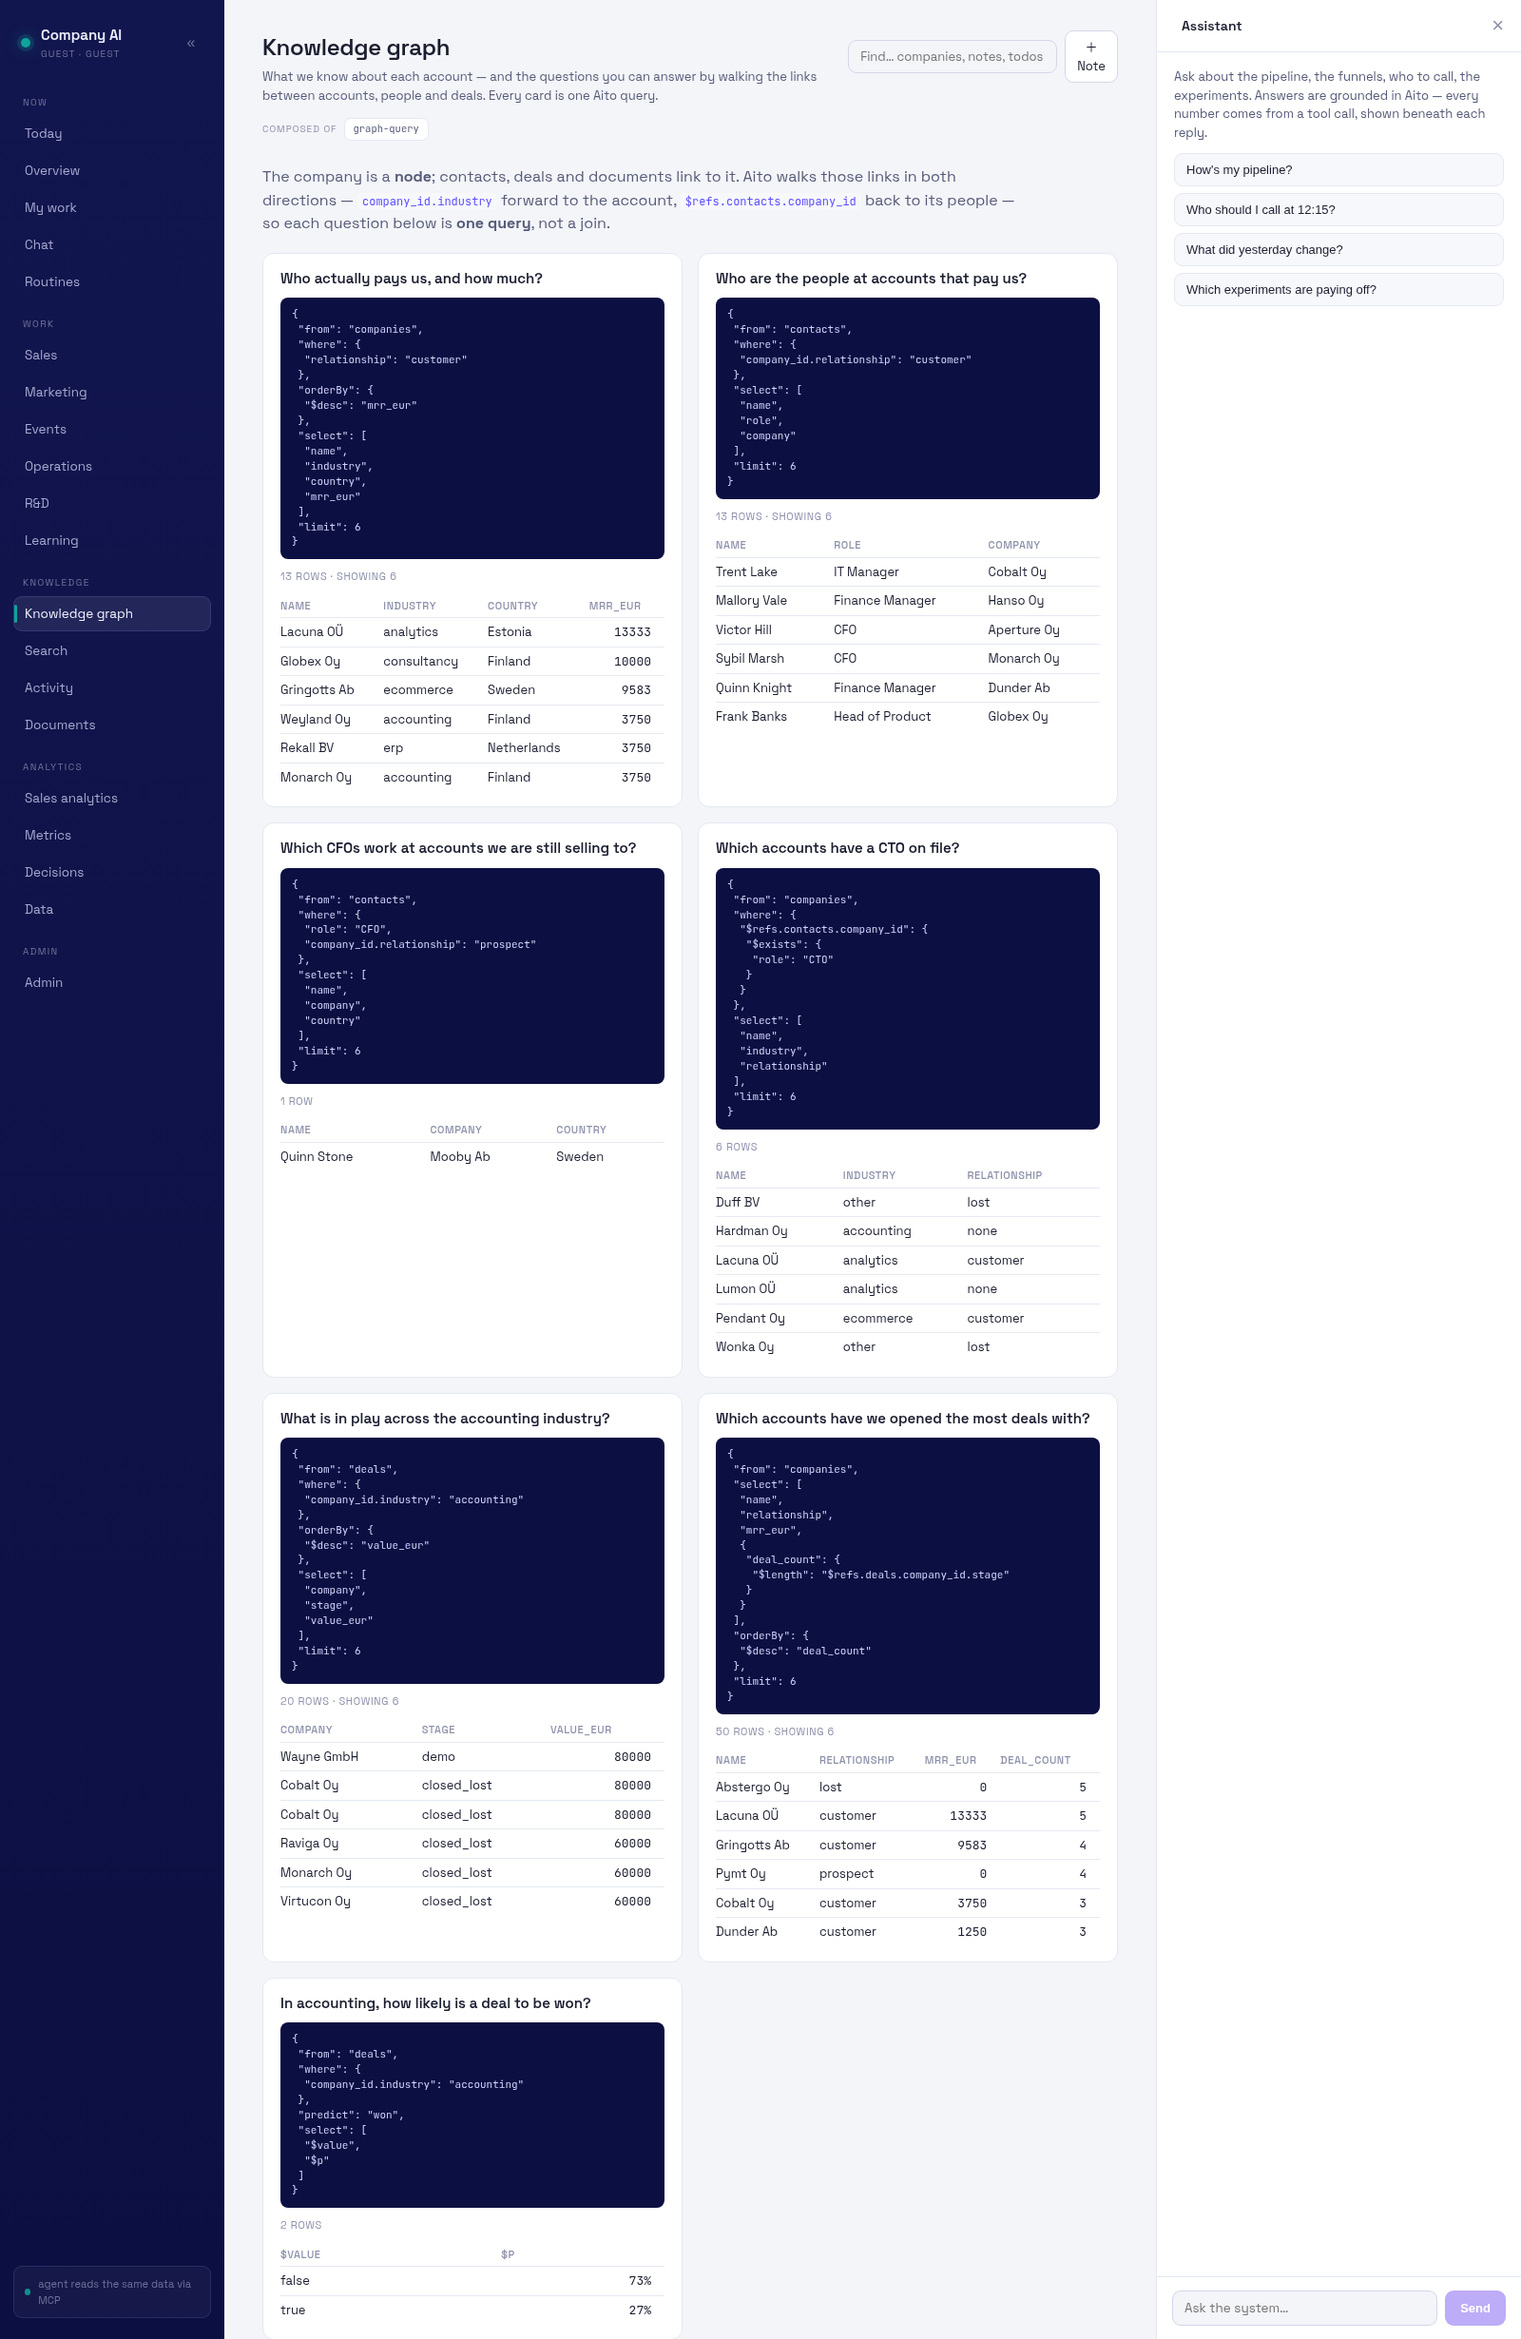
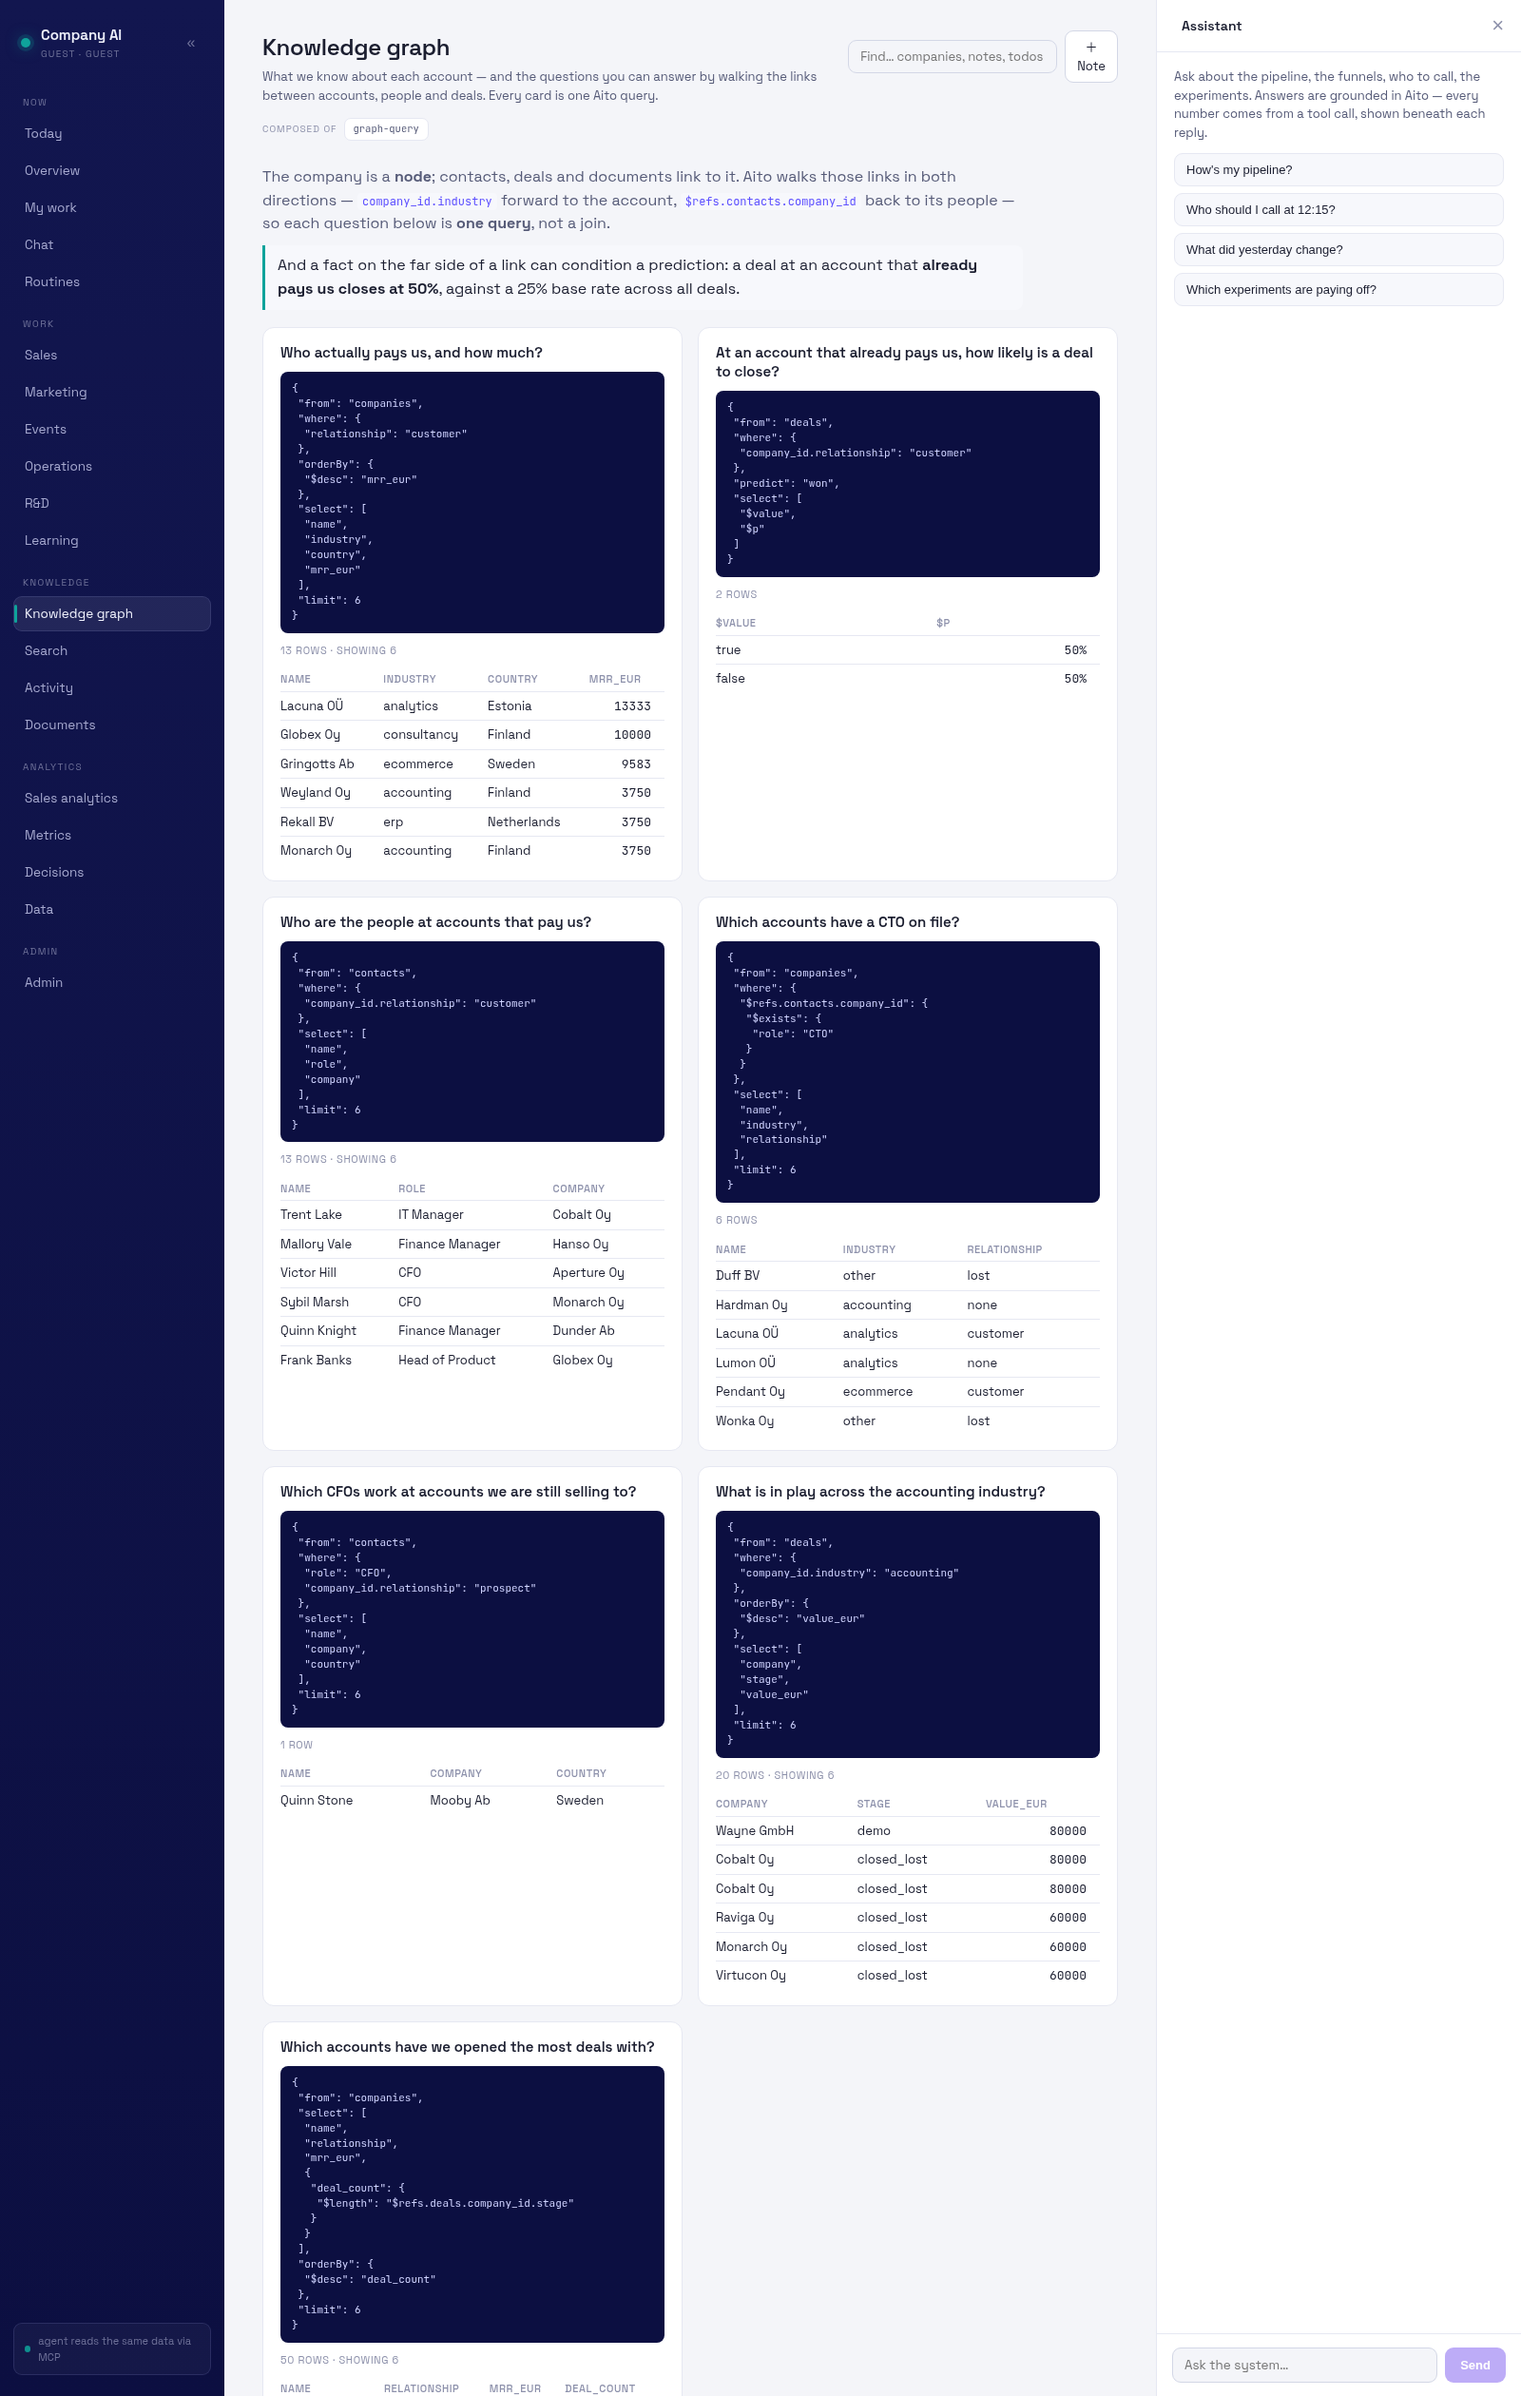
Lead the knowledge graph with its inference card, and record the base rate
The prediction was the last of seven cards, where a screenshot never reaches
it. It is now second, next to the facts card, because it is the only claim on
that board a relational database could not also make: five of the other cards
are joins in disguise.

Choosing the example mattered more than moving it. The card was conditioned on
`company_id.industry = accounting`, which predicts 27% against a 25% base rate
over all deals — a number that renders as a decisive-looking 73/27 split while
saying essentially nothing. Measured the alternatives and took the one with a
real signal: a deal at an account that already pays us closes at 50%, twice the
base rate.

That number is 50/50 on the card, which reads as a coin flip without the
comparison, so the view states the base rate above the grid and docs/31 records
both the finding and the trap — the honest measure of a conditioned prediction
is its distance from the unconditioned one.

Claude-Session: https://claude.ai/code/session_01AkYLb6hZYEM9HdMm8ErDig

diff --git a/frontend/src/views.jsx b/frontend/src/views.jsx
@@ -2040,6 +2040,11 @@ export function GraphView() {
         Aito walks those links in both directions — <code>company_id.industry</code>{" "}
         forward to the account, <code>$refs.contacts.company_id</code> back to its
         people — so each question below is <b>one query</b>, not a join.
+        <div className="gq-finding">
+          And a fact on the far side of a link can condition a prediction: a deal
+          at an account that <b>already pays us closes at 50%</b>, against a 25%
+          base rate across all deals.
+        </div>
       </div>
       {r.loading && <Loading label="Asking the graph…" />}
       {r.err && <ErrorBox msg={r.err} />}

diff --git a/frontend/src/styles.css b/frontend/src/styles.css
@@ -823,3 +823,5 @@ select:focus { outline:none; border-color:var(--purple); }
 .gq-empty, .gq-err { font-size: 13px; color: var(--ink-faint); font-style: italic; }
 .gq-err { color: var(--danger); font-style: normal; font-family: 'JetBrains Mono',monospace; font-size: 11px; }
 @media (max-width: 720px) { .gq-grid { grid-template-columns: 1fr; } }
+.gq-finding { margin-top: 10px; padding: 9px 13px; border-left: 3px solid var(--turquoise);
+              background: var(--tint); border-radius: 0 8px 8px 0; color: var(--ink); }

diff --git a/src/company_ai/graph.py b/src/company_ai/graph.py
@@ -36,6 +36,16 @@ QUESTIONS: list[tuple[str, str, dict]] = [
          "select": ["name", "industry", "country", "mrr_eur"], "limit": 6},
     ),
     (
+        "expansion-odds",
+        "At an account that already pays us, how likely is a deal to close?",
+        # The layer above lookup. The condition is a fact that lives on the
+        # OTHER side of the link, and the answer is a calibrated probability
+        # rather than a count: 50% here against a 25% base rate over all deals,
+        # i.e. selling to an existing customer is worth about two new ones.
+        {"from": "deals", "where": {"company_id.relationship": "customer"},
+         "predict": "won", "select": ["$value", "$p"]},
+    ),
+    (
         "people-at-customers",
         "Who are the people at accounts that pay us?",
         # forward hop: from a contact, through company_id, to that company's
@@ -44,19 +54,19 @@ QUESTIONS: list[tuple[str, str, dict]] = [
          "select": ["name", "role", "company"], "limit": 6},
     ),
     (
-        "finance-at-prospects",
-        "Which CFOs work at accounts we are still selling to?",
-        {"from": "contacts",
-         "where": {"role": "CFO", "company_id.relationship": "prospect"},
-         "select": ["name", "company", "country"], "limit": 6},
-    ),
-    (
         "accounts-with-cto",
         "Which accounts have a CTO on file?",
         # reverse hop: a company's set of contacts, filtered by $exists
         {"from": "companies",
          "where": {"$refs.contacts.company_id": {"$exists": {"role": "CTO"}}},
          "select": ["name", "industry", "relationship"], "limit": 6},
+    ),
+    (
+        "finance-at-prospects",
+        "Which CFOs work at accounts we are still selling to?",
+        {"from": "contacts",
+         "where": {"role": "CFO", "company_id.relationship": "prospect"},
+         "select": ["name", "company", "country"], "limit": 6},
     ),
     (
         "accounting-deals",
@@ -75,15 +85,6 @@ QUESTIONS: list[tuple[str, str, dict]] = [
          "select": ["name", "relationship", "mrr_eur",
                     {"deal_count": {"$length": "$refs.deals.company_id.stage"}}],
          "orderBy": {"$desc": "deal_count"}, "limit": 6},
-    ),
-    (
-        "predict-by-industry",
-        "In accounting, how likely is a deal to be won?",
-        # the layer above lookup: condition a prediction on a fact that lives
-        # on the OTHER side of the link, and let Aito answer with a calibrated
-        # probability rather than a count.
-        {"from": "deals", "where": {"company_id.industry": "accounting"},
-         "predict": "won", "select": ["$value", "$p"]},
     ),
 ]
 

diff --git a/books/book/test_graph.py/test_graph_questions.md b/books/book/test_graph.py/test_graph_questions.md
@@ -10,6 +10,13 @@
     {'country': 'Finland', 'industry': 'consultancy', 'mrr_eur': 10000, 'name': 'Globex Oy'}
     {'country': 'Sweden', 'industry': 'ecommerce', 'mrr_eur': 9583, 'name': 'Gringotts Ab'}
 
+## At an account that already pays us, how likely is a deal to close?
+
+  request:  {'from': 'deals', 'where': {'company_id.relationship': 'customer'}, 'predict': 'won', 'select': ['$value', '$p']}
+  total:    2
+    {'$p': 0.502574268609226, '$value': True}
+    {'$p': 0.49742573139077406, '$value': False}
+
 ## Who are the people at accounts that pay us?
 
   request:  {'from': 'contacts', 'where': {'company_id.relationship': 'customer'}, 'select': ['name', 'role', 'company'], 'limit': 6}
@@ -18,12 +25,6 @@
     {'company': 'Hanso Oy', 'name': 'Mallory Vale', 'role': 'Finance Manager'}
     {'company': 'Aperture Oy', 'name': 'Victor Hill', 'role': 'CFO'}
 
-## Which CFOs work at accounts we are still selling to?
-
-  request:  {'from': 'contacts', 'where': {'role': 'CFO', 'company_id.relationship': 'prospect'}, 'select': ['name', 'company', 'country'], 'limit': 6}
-  total:    1
-    {'company': 'Mooby Ab', 'country': 'Sweden', 'name': 'Quinn Stone'}
-
 ## Which accounts have a CTO on file?
 
   request:  {'from': 'companies', 'where': {'$refs.contacts.company_id': {'$exists': {'role': 'CTO'}}}, 'select': ['name', 'industry', 'relationship'], 'limit': 6}
@@ -31,6 +32,12 @@
     {'industry': 'other', 'name': 'Duff BV', 'relationship': 'lost'}
     {'industry': 'accounting', 'name': 'Hardman Oy', 'relationship': 'none'}
     {'industry': 'analytics', 'name': 'Lacuna OÜ', 'relationship': 'customer'}
+
+## Which CFOs work at accounts we are still selling to?
+
+  request:  {'from': 'contacts', 'where': {'role': 'CFO', 'company_id.relationship': 'prospect'}, 'select': ['name', 'company', 'country'], 'limit': 6}
+  total:    1
+    {'company': 'Mooby Ab', 'country': 'Sweden', 'name': 'Quinn Stone'}
 
 ## What is in play across the accounting industry?
 
@@ -47,10 +54,3 @@
     {'deal_count': 5, 'mrr_eur': 0, 'name': 'Abstergo Oy', 'relationship': 'lost'}
     {'deal_count': 5, 'mrr_eur': 13333, 'name': 'Lacuna OÜ', 'relationship': 'customer'}
     {'deal_count': 4, 'mrr_eur': 9583, 'name': 'Gringotts Ab', 'relationship': 'customer'}
-
-## In accounting, how likely is a deal to be won?
-
-  request:  {'from': 'deals', 'where': {'company_id.industry': 'accounting'}, 'predict': 'won', 'select': ['$value', '$p']}
-  total:    2
-    {'$p': 0.7261508779303686, '$value': False}
-    {'$p': 0.27384912206963136, '$value': True}

diff --git a/docs/31-knowledge-graph.md b/docs/31-knowledge-graph.md
@@ -66,9 +66,20 @@ likely":
 
 ```json
 { "from": "deals",
-  "where": { "company_id.industry": "accounting" },
+  "where": { "company_id.relationship": "customer" },
   "predict": "won", "select": ["$value", "$p"] }
 ```
+
+That returns **50%**, against a **25%** base rate over all deals: a deal at an
+account that already pays us is worth about two at a new one. The condition is
+a fact that exists only because it was harvested onto the node — there is no
+`relationship` column on `deals` to filter by.
+
+Pick this kind of example carefully. `company_id.industry: "accounting"`
+predicts 27% against the same 25% base rate — a number that *looks* decisive
+at 73%/27% while saying essentially nothing. The honest measure of a
+conditioned prediction is its distance from the unconditioned one, so measure
+the baseline before quoting a lift.
 
 ## The surface
 
